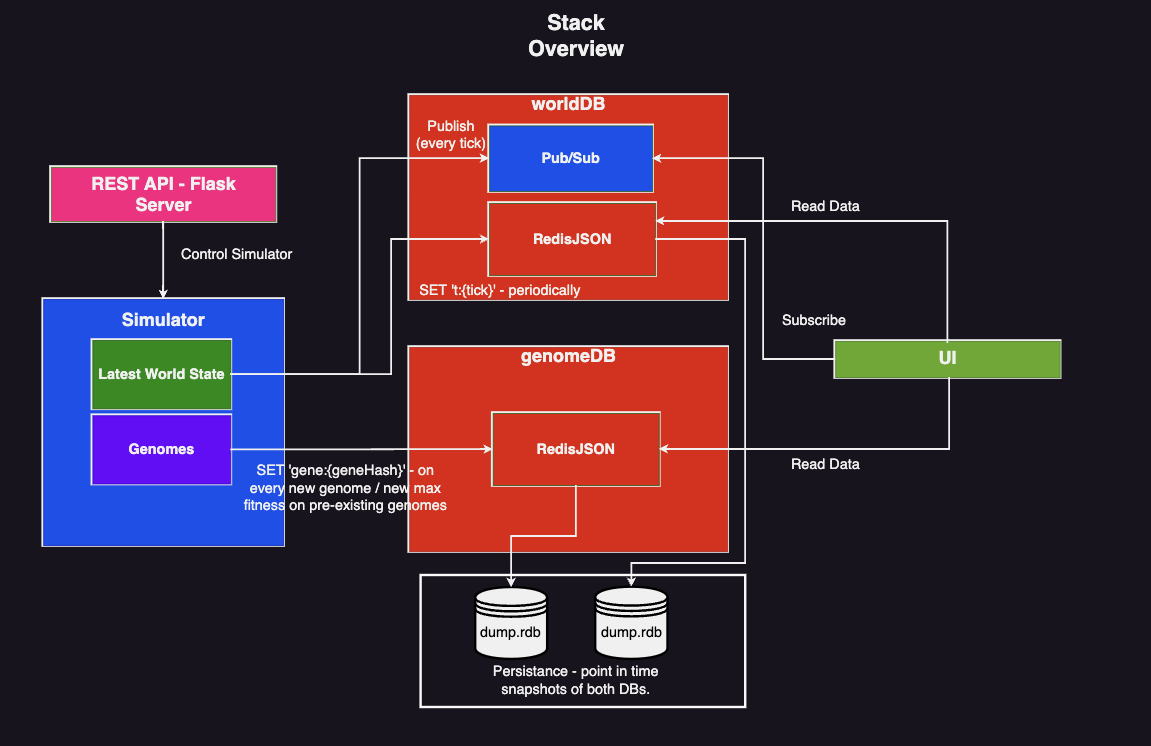
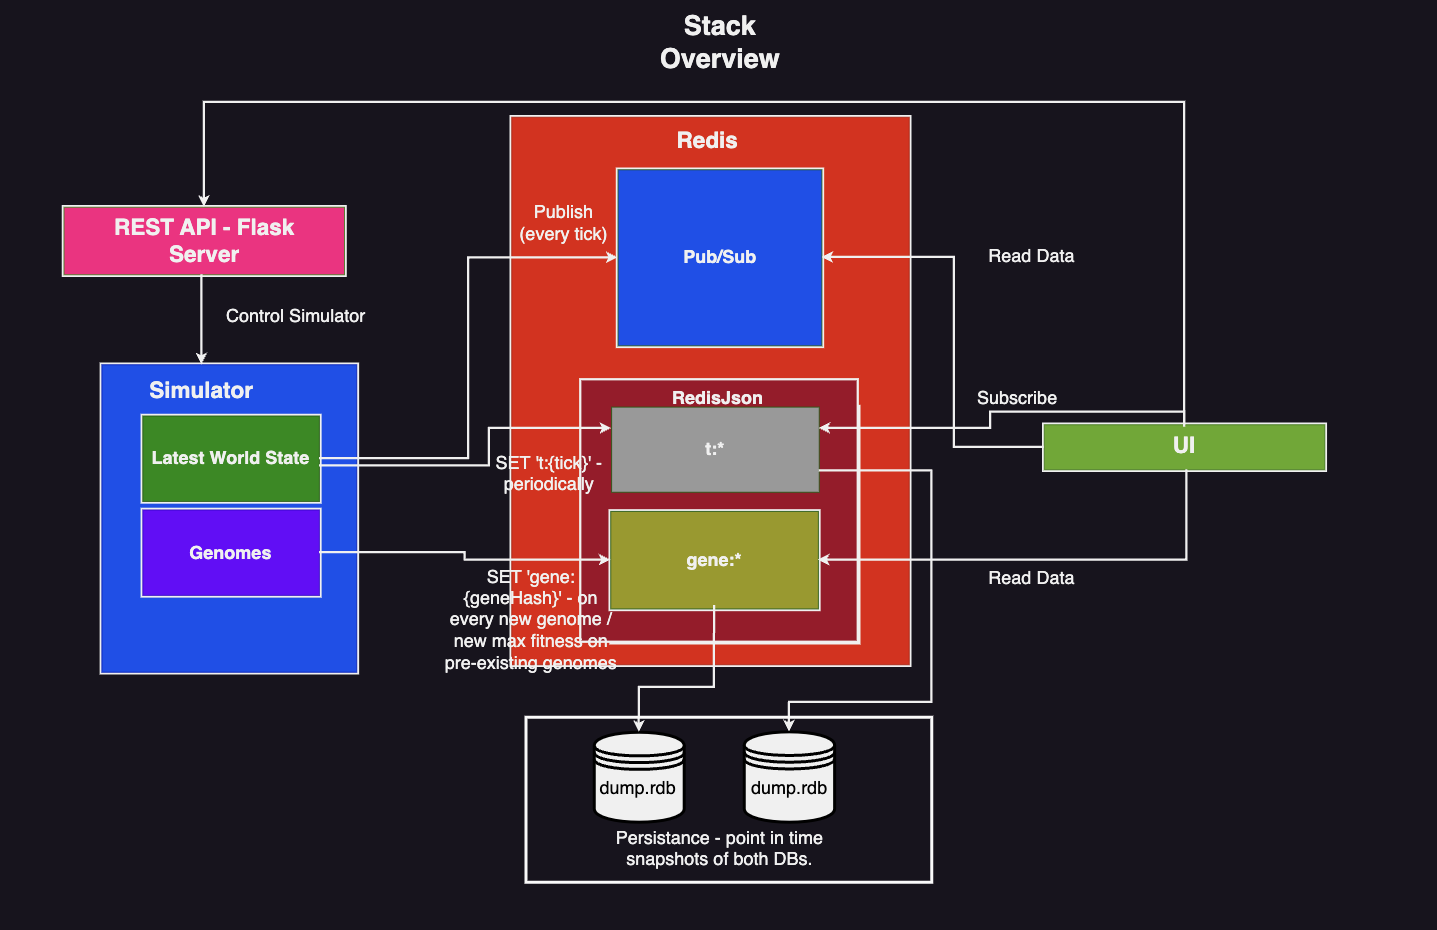
simplified docker instance

Changed region(s): [[0.0304, 0.0, 0.8514, 0.9558], [0.6082, 0.185, 0.6386, 0.2158], [0.3649, 0.7708, 0.3953, 0.8016]]

diff --git a/redis_renderer.py b/redis_renderer.py
@@ -34,7 +34,6 @@ class Simulator(object):
     self.config = CONFIG
     self.world = World(borderDims=self.config['WORLDSIZE'])
     self.r = redis.Redis()
-    self.genomeDB = self.r.from_url('redis://localhost:6380/0')
     if not self.r.exists('CONFIG'):
       self.r.json().set('CONFIG', '$', self.config)
 
@@ -49,27 +48,9 @@ class Simulator(object):
 
     self.clock = pygame.time.Clock()
 
-    rLen = len(self.r.keys())
-    gLen = len(self.genomeDB.keys())
-    load = False
+    rLen = len(self.r.keys('t:*'))
     if rLen > 1:
-      if gLen > 1:
-        load = True
-      else:
-        print('ERROR: ONE OF THE DBs are EMPTY WHILST THE OTHER IS NOT')
-    elif gLen > 1:
-        print('ERROR: ONE OF THE DBs are EMPTY WHILST THE OTHER IS NOT')
-
-    if load:
       self.loadWorld()
-
-    try:
-      # create indices
-      self.r.execute_command('FT.CREATE worldIdx ON JSON PREFIX 1 t: SCHEMA $.tick AS tick NUMERIC $.maxFitness as maxFitness NUMERIC')
-      self.genomeDB.execute_command('FT.CREATE genomes ON JSON PREFIX 1 gene: SCHEMA $.hash AS hash TEXT $.fitness as fitness NUMERIC')
-    except:
-      # this is run when indices already exist
-      print('*** pretty sure indices already exist, skipping index creation... ***')
 
     # dumping shared mem addrs for the web server to access
     self.pauseMem = shared_memory.SharedMemory(create=True, size=1)
@@ -81,6 +62,7 @@ class Simulator(object):
   
   #TODO: use multiprocessing on some loading operations for speedup
   def loadWorld(self):
+    print('loading world state from redis')
 
     self.config = self.r.json().get('CONFIG')
     confFile = open('config.json', 'w+')
@@ -94,8 +76,8 @@ class Simulator(object):
     self.world.borders = pygame.Rect(self.world.borders)
     self.background = pygame.Surface((self.world.borders.width, self.world.borders.height))
 
-    # query genomeDB for best genome with fitness and hash
-    docs = self.genomeDB.ft('genomes').aggregate(
+    # query r for best genome with fitness and hash
+    docs = self.r.ft('genomes').aggregate(
       query=AggregateRequest('*')
         .sort_by(Desc('@fitness'), max=1)
         .group_by(['@fitness', '@hash'])
@@ -103,7 +85,7 @@ class Simulator(object):
 
     h = docs.rows[0][3]
     genomeId = f'gene:{h.decode("utf8")}'
-    bestGenome = self.genomeDB.json().get(genomeId, 'genome')
+    bestGenome = self.r.json().get(genomeId, 'genome')
     bestGenome['neuronalConnections'] = OrderedDict({x:torch.Tensor(bestGenome['neuronalConnections'][x])
         for x in bestGenome['neuronalConnections'].keys()}) 
 
@@ -132,7 +114,7 @@ class Simulator(object):
     self.world.creatureList = []
 
     for c in creatureList:
-      genome = self.genomeDB.json().get(f'gene:{c["geneHash"]}', 'genome')
+      genome = self.r.json().get(f'gene:{c["geneHash"]}', 'genome')
       genome['neuronalConnections'] = OrderedDict({x:torch.Tensor(genome['neuronalConnections'][x])
         for x in genome['neuronalConnections'].keys()})
       
@@ -180,7 +162,7 @@ class Simulator(object):
 
     for c in self.world.creatureList:
 
-      if not self.genomeDB.exists('gene:' + c.geneHash):
+      if not self.r.exists('gene:' + c.geneHash):
         print('new genome?')
         data = {
           'hash': c.geneHash, 
@@ -191,10 +173,10 @@ class Simulator(object):
             default=customEncoder
           ))
         }
-        self.genomeDB.json().set('gene:' + data['hash'], '$', data)
+        self.r.json().set('gene:' + data['hash'], '$', data)
 
-      elif self.genomeDB.json().get('gene:' + c.geneHash, 'fitness') < c.getFitness():
-        self.genomeDB.json().set('gene:' + c.geneHash, 'fitness', c.getFitness())
+      elif self.r.json().get('gene:' + c.geneHash, 'fitness') < c.getFitness():
+        self.r.json().set('gene:' + c.geneHash, 'fitness', c.getFitness())
 
   def main(self):
 

diff --git a/test/test_genome.py b/test/test_genome.py
@@ -9,7 +9,7 @@ import unittest
 import torch
 from geneutils import Genome
 from brain import Brain 
-from config import *
+from config import CONFIG
 
 SIZE = 120
 ENERGY_CAP = 120
@@ -28,13 +28,13 @@ class TestGenome(unittest.TestCase):
     )
 
     self.assertEqual(genes.size, 
-    int(MIN_CREATURE_SIZE + (SIZE/255) * (MAX_CREATURE_SIZE - MIN_CREATURE_SIZE))
+    int(CONFIG['MIN_CREATURE_SIZE'] + (SIZE/255) * (CONFIG['MAX_CREATURE_SIZE'] - CONFIG['MIN_CREATURE_SIZE']))
     )
 
     self.assertEqual(
       genes.energyCap, 
-      MIN_ENERGY_CAP + (genes.size - MIN_CREATURE_SIZE) * \
-      (MAX_ENERGY_CAP - MIN_ENERGY_CAP) / (MAX_CREATURE_SIZE - MIN_CREATURE_SIZE)
+      CONFIG['MIN_ENERGY_CAP'] + (genes.size - CONFIG['MIN_CREATURE_SIZE']) * \
+      (CONFIG['MAX_ENERGY_CAP'] - CONFIG['MIN_ENERGY_CAP']) / (CONFIG['MAX_CREATURE_SIZE'] - CONFIG['MIN_CREATURE_SIZE'])
     )
 
 if __name__ == '__main__':
